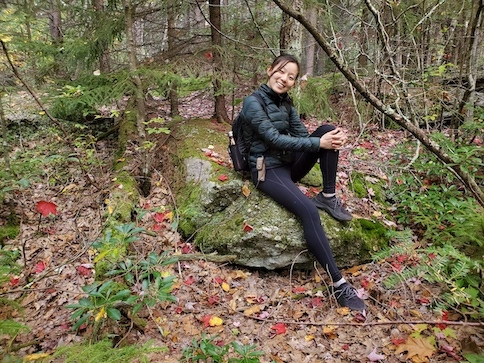
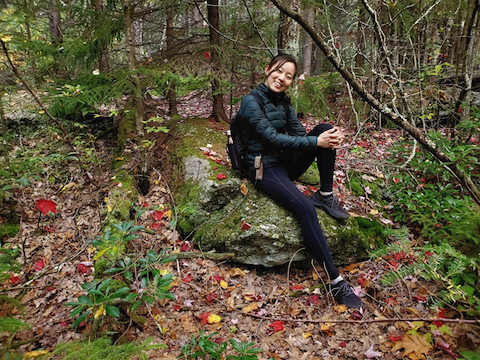
updated images

diff --git a/src/App.js b/src/App.js
@@ -7,6 +7,7 @@ import AboutPage from './Components/AboutPage'
 import ExhibitionsContainer from './Components/ExhibitionsContainer'
 import MobileNav from './Components/MobileNav'
 import Contact from './Components/Contact'
+import ShopPage from './Components/ShopPage'
 // import Media from './Components/Media'
 
 import {connect} from 'react-redux'
@@ -40,6 +41,9 @@ class App extends React.Component {
               } />
               <Route path="/gallery" exact render={() =>
                 <ProjectContainer/>
+              } />
+              <Route path="/shop" exact render={() =>
+                <ShopPage/>
               } />
               <Route path="/contact" exact render={() =>
                 <Contact/>

diff --git a/src/App.css b/src/App.css
@@ -300,8 +300,8 @@ main {
 }
 
 .profile-pic {
-  width: 484px;
-  height: 363px;
+  width: 480px;
+  height: 360px;
   /* float: left; */
   align-self: center;
   margin: 25px;
@@ -433,4 +433,17 @@ main {
 
 .submit-btn {
 
+}
+
+.shop-page {
+  display: flex;
+  margin-left: 40%;
+}
+
+.shop-page h1 {
+  color: rgb(0, 0, 0);
+  font-size: 28px;
+  font-weight: 500;
+  text-transform: uppercase;
+  align-self: center;
 }

diff --git a/src/Components/NavBar.jsx b/src/Components/NavBar.jsx
@@ -28,6 +28,9 @@ const NavBar = (props) => {
                 <NavLink className="navlink" to="/bio">Bio</NavLink>
                 </li>
                 <li>
+                <NavLink className="navlink" to="/shop">Shop</NavLink>
+                </li>
+                <li>
                 <NavLink className="navlink" to="/contact">Contact</NavLink>
                 </li>
             </ul>

diff --git a/src/Components/ShopPage.jsx b/src/Components/ShopPage.jsx
@@ -1,0 +1,20 @@
+import React from 'react';
+
+import {connect} from 'react-redux'
+
+//Parents: ProjectContainer
+
+const Project = (props) => {
+
+    return (
+        <>
+        <div className="shop-page">
+            <div className="text">
+                <h1>Coming Soon!</h1>
+            </div>
+        </div>
+        </>
+    )
+};
+
+export default connect()(Project);
